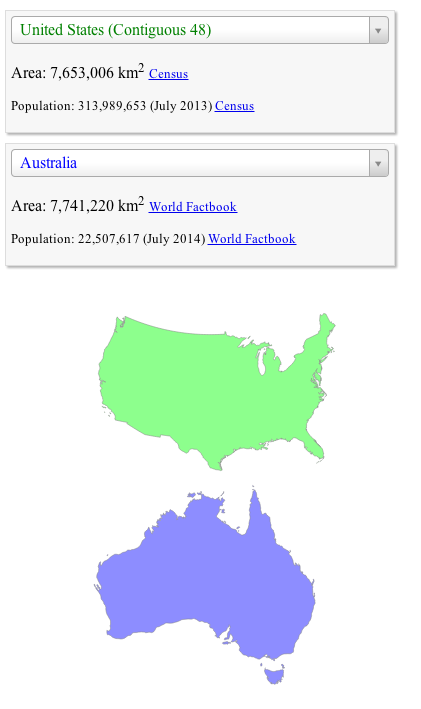
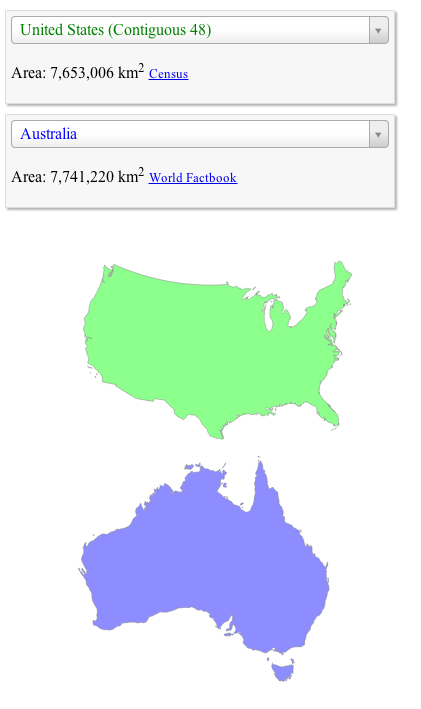
tighten up mobile a bit

Changed region(s): [[0.0, 0.1241, 0.9572, 0.9619]]

diff --git a/comparea/static/css/comparea.css b/comparea/static/css/comparea.css
@@ -90,6 +90,9 @@ html,body{
   .about-link {
     display: none;
   }
+  .population {
+    display: none;
+  }
 }
 
 @media only screen and (max-height: 500px) {
@@ -101,7 +104,7 @@ html,body{
 
 @media only screen and (max-height: 500px) and (orientation: portrait) {
   /* On short phones, use less space for stats and more for shapes. */
-  .population {
+  .statistics {
     display: none;
   }
 }

diff --git a/comparea/static/js/comparea.js b/comparea/static/js/comparea.js
@@ -48,6 +48,7 @@ var drag = d3.behavior.drag()
     d3.select(this.parentNode).moveToFront();
     d3.select(this).classed('in-transit', true);
     d3.event.sourceEvent.stopPropagation(); // silence other listeners, e.g. zoom
+    d3.event.sourceEvent.preventDefault();
   })
   .on('dragend', function() {
     d3.select(this).classed('in-transit', false);
